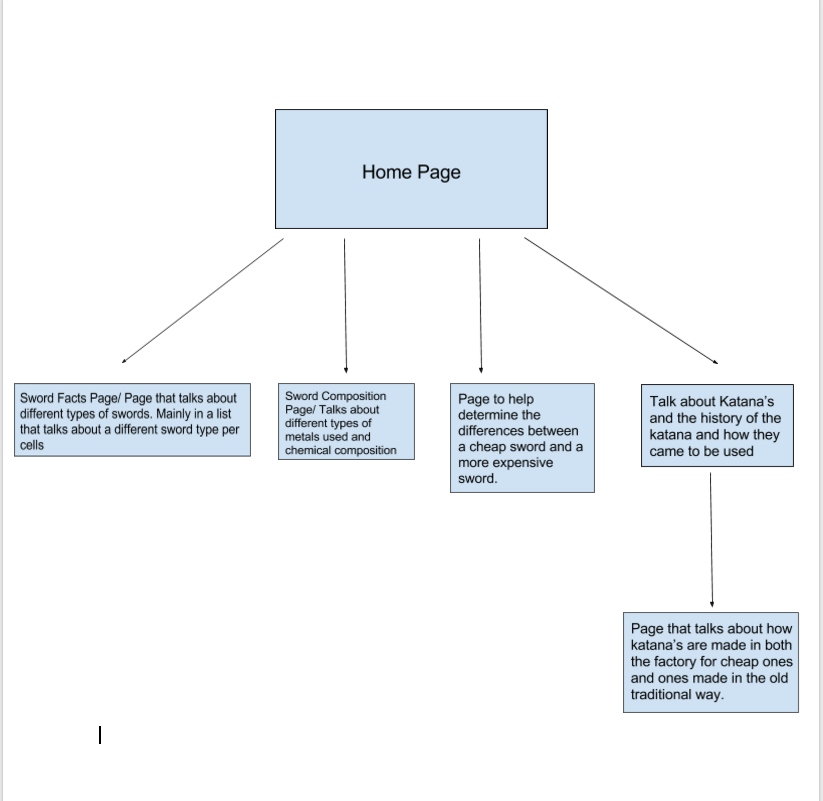
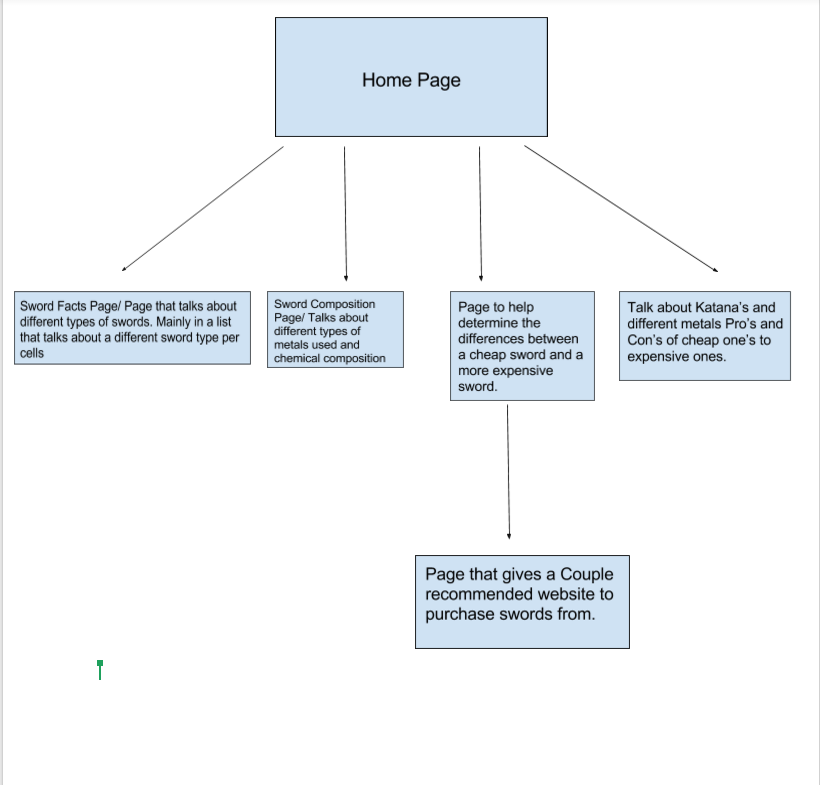
Add files via upload

diff --git a/csisproject/swordcomparison.html b/csisproject/swordcomparison.html
@@ -1,0 +1,86 @@
+<html>
+    <head>
+        <link rel="stylesheet" type="text/css" href="swordcomparison.css"/>
+    </head>
+    <body>
+        <table id="header">
+            <tbody>
+                <tr >
+                    <td colspan=4>
+                        <p class="title" onclick="window.location.href='./home.html'">Tetra Blade's</p>
+                    </td>
+                </tr>
+                <tr class="nav">
+                    <td class="nav"><button id="swordtype" onclick="window.location.href='./swordtypes.html'">Sword Type's</button></td>
+                    <td class="nav"><button id="swordmetal" onclick="window.location.href='./swordmetal.html'">Sword Metal's</button></td>
+                    <td class="nav"><button id="swordbuying" onclick="window.location.href='./swordcomparison.html'">Sword Price Comparison</button></td>
+                    <td class="nav"><button id="katana" onclick="window.location.href='./swordtypes.html'">Katana's(In Progress)</button></td>
+                </tr>
+            </tbody>
+        </table>
+        <div class="pagebody">
+            <div class="pagebodywelcome">
+                Sword Price Comparison
+            </div>
+            <table id="swordcomparison">
+                <tr>
+                    <th>
+                        Expensive (Carbon, Spring, and Tool Steel)
+                    </th>
+                    <th>
+                        Cheap (Stainless Steel)
+                    </th>
+                </tr>
+                <tr>
+                    <td class="expensive">
+                        Goods
+                        <ul>
+                            <li>Higher Quality</li>
+                            <li>Stronger/Harder Steel</li>
+                            <li>Better Blade Retention</li>
+                            <li>Usable for on-contact practice</li>
+                        </ul>
+                        Bads
+                        <ul>
+                            <li>Expensive (lowest price for a okay sword will be around $100)</li>
+                        </ul>
+                    </td>
+                    <td class="cheap">
+                        Goods
+                        <ul>
+                            <li>Good for Display Items</li>
+                            <li>Cheaper to produce and manufacture</li>
+                            <li>only usable for none contact practice</li>
+                            <li>Good for knives or any blades under 12" long</li>
+                            <li>neverfull tang, handle is ussually never connected to the blade in one peice</li>
+                        </ul>
+                        Bads
+                        <ul>
+                            <li>Lower Quality</li>
+                            <li>Brittle/Weak Steel</li>
+                            <li>Worse Blade Retention</li>
+                            <li>High probabilty to shattering if blade is longer than 12" long</li>
+                        </ul>
+                    </td>
+                </tr>
+                <tr>
+                    <td class="video"><iframe width="100%" height="250" src="https://www.youtube.com/embed/peY3OgGfJvY" frameborder="0" allowfullscreen></iframe>
+                    </td>
+                    <td class="video"><iframe width="100%" height="250" src="https://www.youtube.com/embed/Bh5H2Lw-CPs?rel=0" frameborder="0" allowfullscreen></iframe>
+                    </td>
+                </tr>
+                <tr>
+                    <td colspan=2>
+                        Recommended Online Sword Vedor's:
+                        <ul>
+                            <li><a href="http://www.coldsteel.com/products-by-cold-steel/swords-by-cold-steel.html" target="_blank">Cold Steel</a>
+                        </ul>
+                    </td>
+                </tr>
+            </table>
+            <div id="footer">
+                <h3>Nathan Craig | <a href = "mailto:s1422335@student.mcckc.edu">s1422335@student.mcckc.edu</h3>
+            </div>
+        </div>
+    </body>
+</html>

diff --git a/csisproject/home.html b/csisproject/home.html
@@ -13,7 +13,7 @@
                 <tr class="nav">
                     <td class="nav"><button id="swordtype" onclick="window.location.href='./swordtypes.html'">Sword Type's</button></td>
                     <td class="nav"><button id="swordmetal" onclick="window.location.href='./swordmetal.html'">Sword Metal's</button></td>
-                    <td class="nav"><button id="swordbuying" onclick="window.location.href='./swordtypes.html'">Sword Buying(In Progress)</button></td>
+                    <td class="nav"><button id="swordbuying" onclick="window.location.href='./swordcomparison.html'">Sword Price Comparison</button></td>
                     <td class="nav"><button id="katana" onclick="window.location.href='./swordtypes.html'">Katana's(In Progress)</button></td>
                 </tr>
             </tbody>
@@ -24,7 +24,7 @@
             </div>
             <div class="pagebodyintro">
                 Welcome to Tetra Blade's. This website is a dedicated to helping users, like yourself, learn about different type's of swords, their metal compsitition and differences in buying cheap and expensive swords. 
-                    Also, we have a special section on Katana's that will tell you about their history and difference in quality of katana's for expmple diffences between a hand forged and production line katana's.
+                    Also, we have a special section on Katana's that will tell you about their history and difference in quality of katana's for example diffences between a hand forged and production line katana's. To navigate the site use the pictures or through the navigation bar. Click on Tetra Blade's to come back to the homepage.
             </div>
             <table id="picnavT">
                 <tr id="picnav">
@@ -39,7 +39,7 @@
                 </tr>
                 <tr id="picnav">
                     <td>
-                        Sword Buying(In Progress)
+                        Sword Price Comparison
                         <div class="swordbuying"><img src="./pictures/swordcheapvsexpen.jpg" onclick="window.location.href='./swordtypes.html'" style="width:300px;height:300px"></div>
                     </td>
                     <td>

diff --git a/csisproject/swordcomparison.css b/csisproject/swordcomparison.css
@@ -30,22 +30,17 @@ body{
     background: grey;
     margin: 0px;
 }
-.pagebodyintro {
-    text-align: center;
-    font-family: "Times New Roman", Times, serif;
-    font-size: 1em;
-}
 .pagebodywelcome {
     text-align: center;
     font-family: "Times New Roman", Times, serif;
-    font-size: 1.5em;
+    font-size: 2em;
 }
-.nav{
+.nav {
     border: grey;
     background-color: grey;
     text-align: center;
 }
-button{
+button {
     background: -webkit-gradient(linear, left top, left bottom, from(lightgrey), to(grey));
     background: -moz-linear-gradient(bottom,  lightgrey,  grey);
     filter:  progid:DXImageTransform.Microsoft.gradient(startColorstr=lightgrey, endColorstr=grey);
@@ -53,16 +48,27 @@ button{
     font-family: "Times New Roman", Times, serif;
     font-size: 1em;
 }
-p{
+p {
     margin: 0px;
     text-align: center;
     font-family: "Times New Roman", Times, serif;
     font-size: 1em;
 }
-#picnavT{
-    margin: 0px auto;
-    text-align: center;
+.expensive {
+    background-color: lightgrey;
+    border: solid 2px black;
     font-family: "Times New Roman", Times, serif;
-    font-size: 1.45em;
+    font-size: 1.2em;
+    width: 50%;
+    
 }
-
+.cheap {
+    background-color: lightgrey;
+    border: solid 2px black;
+    font-family: "Times New Roman", Times, serif;
+    font-size: 1.2em;
+    width: 50%;
+}
+#swordcomparison {
+    width: 100%;
+}

diff --git a/csisproject/swordtypes.html b/csisproject/swordtypes.html
@@ -13,14 +13,14 @@
                 <tr class="nav">
                     <td class="nav"><button id="swordtype" onclick="window.location.href='./swordtypes.html'">Sword Type's</button></td>
                     <td class="nav"><button id="swordmetal" onclick="window.location.href='./swordmetal.html'">Sword Metal's</button></td>
-                    <td class="nav"><button id="swordbuying" onclick="window.location.href='./swordtypes.html'">Sword Buying</button></td>
-                    <td class="nav"><button id="katana" onclick="window.location.href='./swordtypes.html'">Katana's</button></td>
+                    <td class="nav"><button id="swordbuying" onclick="window.location.href='./swordcomparison.html'">Sword Price Comparison</button></td>
+                    <td class="nav"><button id="katana" onclick="window.location.href='./swordtypes.html'">Katana's(In Progress)</button></td>
                 </tr>
             </tbody>
         </table>
         <div class="pagebody">
             <div class="pagebodywelcome">
-                Type's of Swords
+                Sword Type's
             </div>
             <table id="metalstable">
                 <tr>

diff --git a/csisproject/swordmetal.html b/csisproject/swordmetal.html
@@ -13,8 +13,8 @@
                 <tr class="nav">
                     <td class="nav"><button id="swordtype" onclick="window.location.href='./swordtypes.html'">Sword Type's</button></td>
                     <td class="nav"><button id="swordmetal" onclick="window.location.href='./swordmetal.html'">Sword Metal's</button></td>
-                    <td class="nav"><button id="swordbuying" onclick="window.location.href='./swordtypes.html'">Sword Buying</button></td>
-                    <td class="nav"><button id="katana" onclick="window.location.href='./swordtypes.html'">Katana's</button></td>
+                    <td class="nav"><button id="swordbuying" onclick="window.location.href='./swordcomparison.html'">Sword Price Comparison</button></td>
+                    <td class="nav"><button id="katana" onclick="window.location.href='./swordtypes.html'">Katana's(In Progress)</button></td>
                 </tr>
             </tbody>
         </table>
